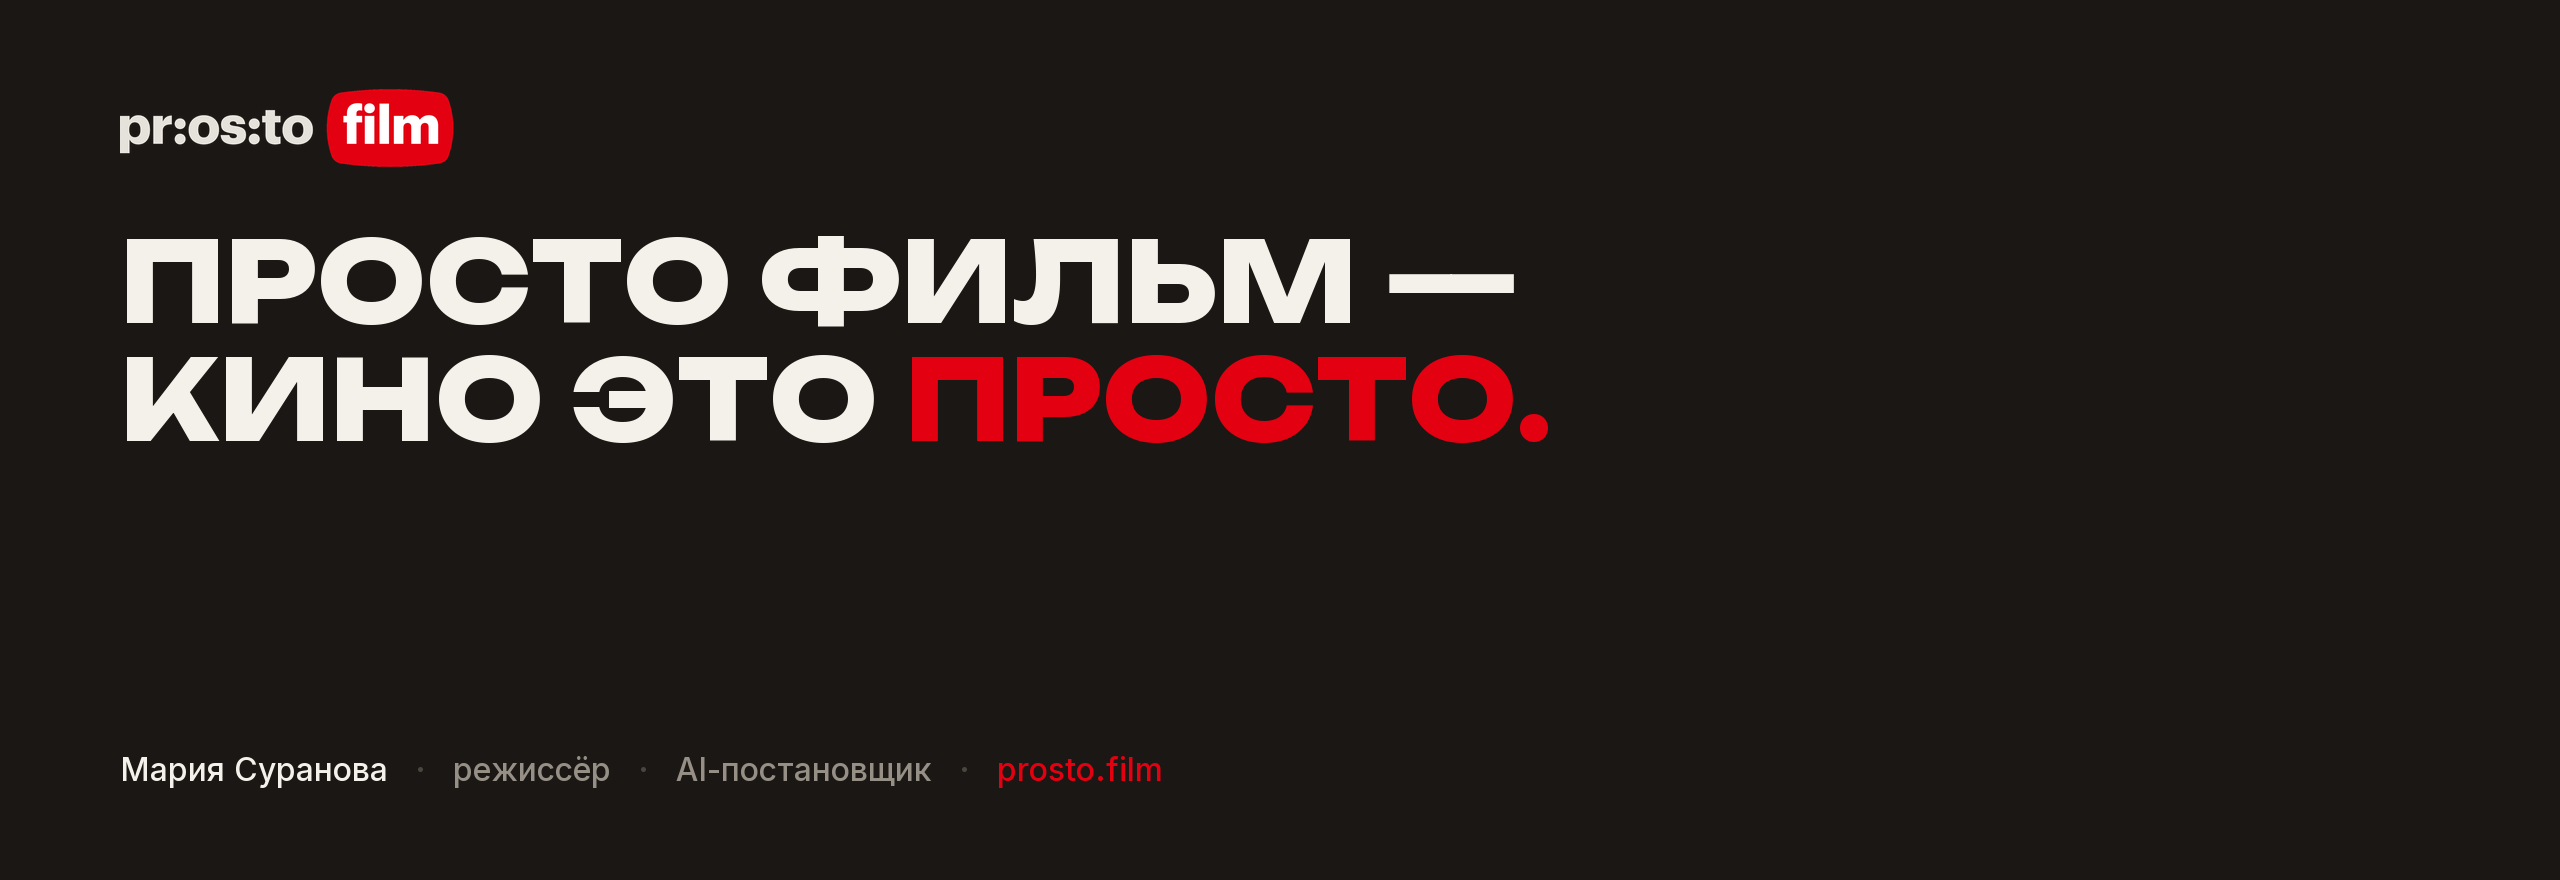
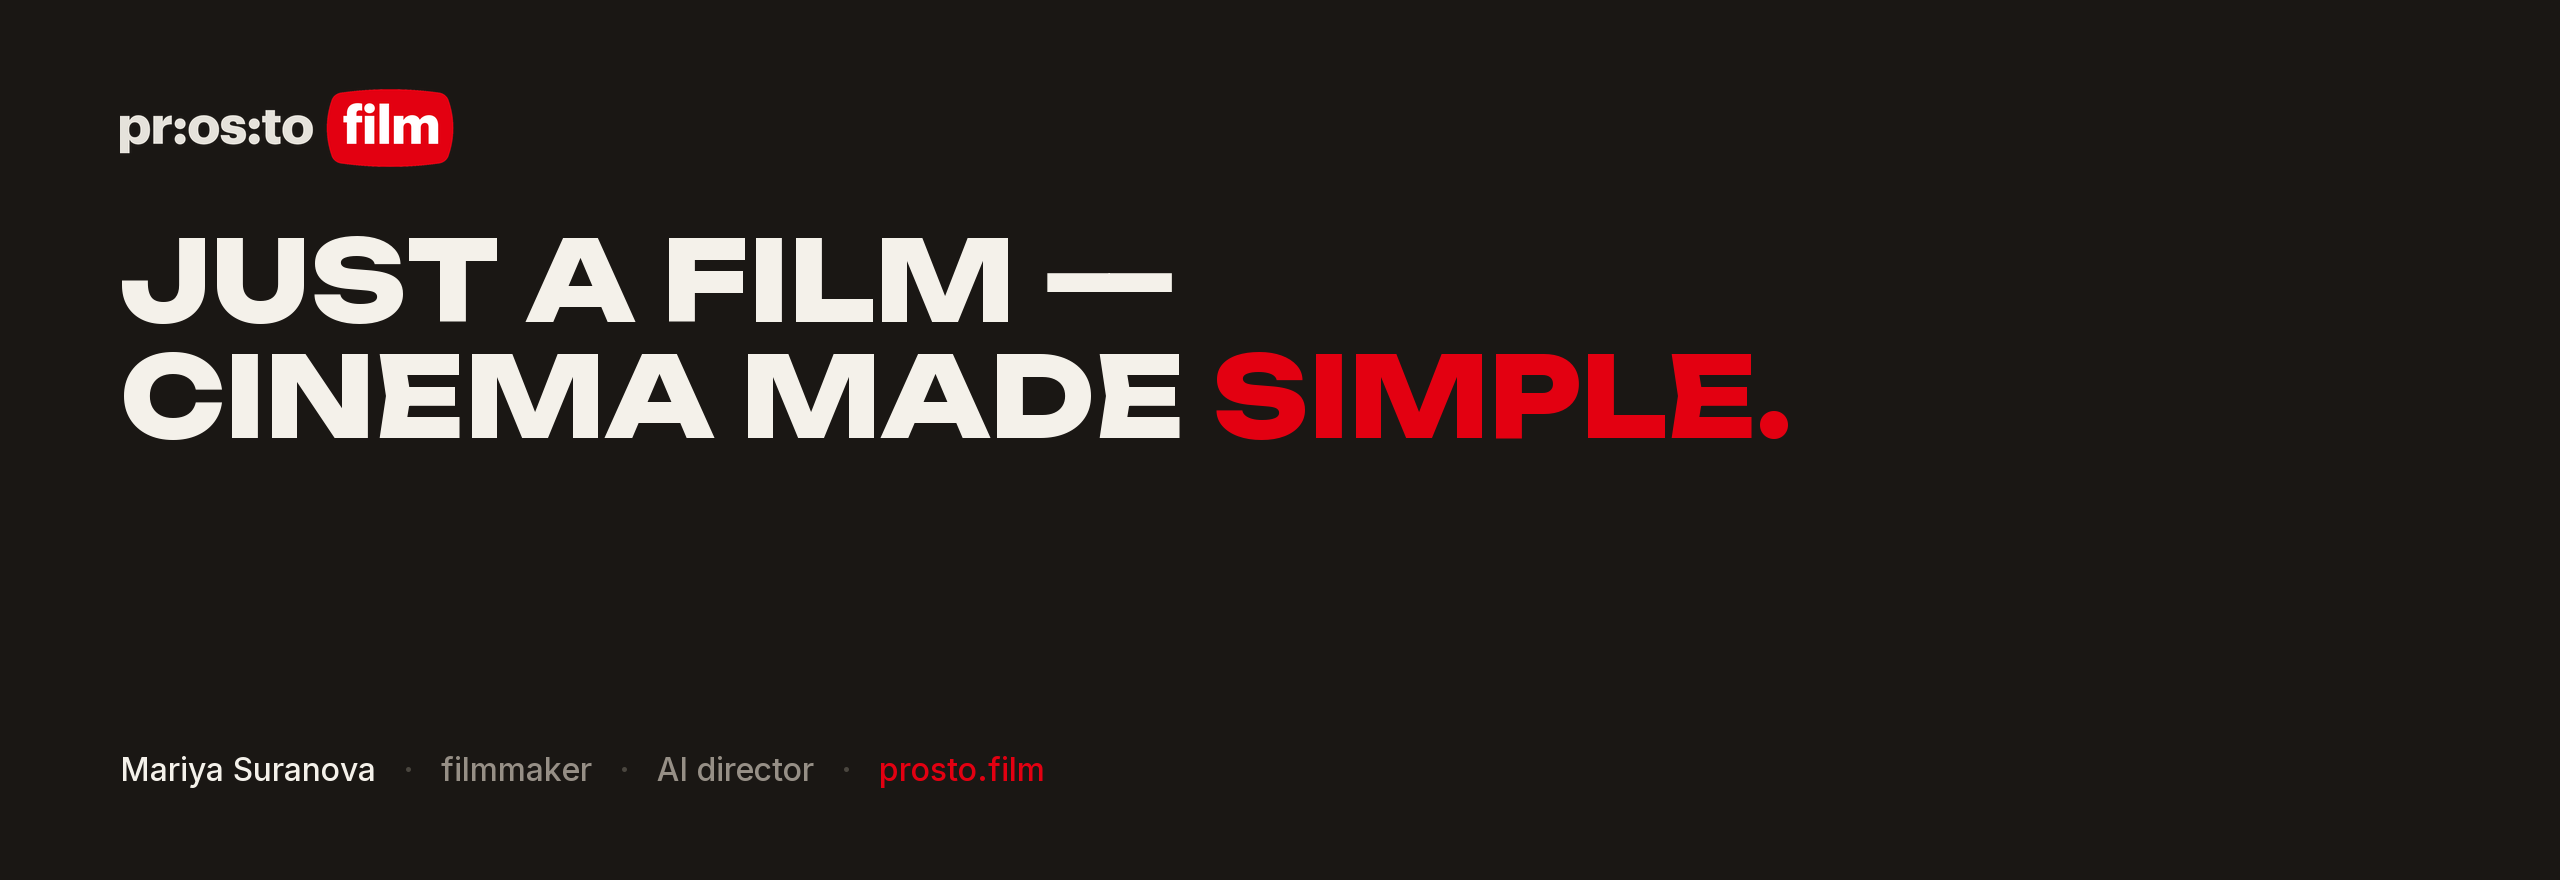
Profile in English (international audience)

Changed region(s): [[0.0312, 0.3989, 0.7188, 0.5216], [0.0312, 0.2455, 0.5938, 0.3682], [0.0625, 0.8591, 0.4688, 0.8898]]

diff --git a/README.md b/README.md
@@ -1,28 +1,28 @@
-![Просто фильм — кино это просто.](assets/banner.png)
+![Just a film — cinema made simple.](assets/banner.png)
 
-### Привет, я Мария 👋
+### Hi, I'm Mariya 👋
 
-Делаю так, чтобы кино было проще. Основатель **Prosto.Film** и **Generation Studio** —
-продуктов и инструментов для тех, кто снимает, монтирует и генерирует видео с ИИ.
+I make cinema simpler. Founder of **Prosto.Film** and **Generation Studio** —
+products and tools for people who shoot, edit, and generate video with AI.
 
-**Кино · ИИ · автоматизация монтажа.**
+**Cinema · AI · editing automation.**
 
-### Чем занимаюсь
+### What I do
 
-- 🎬 **Prosto.Film** — экосистема для филммейкеров: автоматизация монтажа, AI-постановка, контент.
-- ⚙ **Generation Studio** — генерация изображений, видео и аудио под задачи продакшна.
-- ▶ **YouTube** — про то, как делать видео проще.
+- 🎬 **Prosto.Film** — an ecosystem for filmmakers: editing automation, AI directing, content.
+- ⚙ **Generation Studio** — image, video, and audio generation for production.
+- ▶ **YouTube** — on making video simpler.
 
-### Где найти
+### Find me
 
 - 🌐 [prosto.film](https://prosto.film)
 - ▶ YouTube — [@Prosto_Film](https://youtube.com/@Prosto_Film)
 - 💬 Telegram — [@ProstoFilm_bot](https://t.me/ProstoFilm_bot)
 
-### Закреплено
+### Pinned
 
-- [**prostofilm-motion-graphics**](https://github.com/Msuranova/prostofilm-motion-graphics) — design rulebook для графики в видео: инфографика, титры, плашки и текстуры, анимация, переходы. Motion design end to end.
+- [**prostofilm-motion-graphics**](https://github.com/Msuranova/prostofilm-motion-graphics) — a design rulebook for on-screen graphics: infographics, titles, plates & textures, animation, transitions. Motion design end to end.
 
 ---
 
-<sub>**Просто фильм — кино это просто.**</sub>
+<sub>**Just a film — cinema made simple.** · Просто фильм — кино это просто.</sub>
